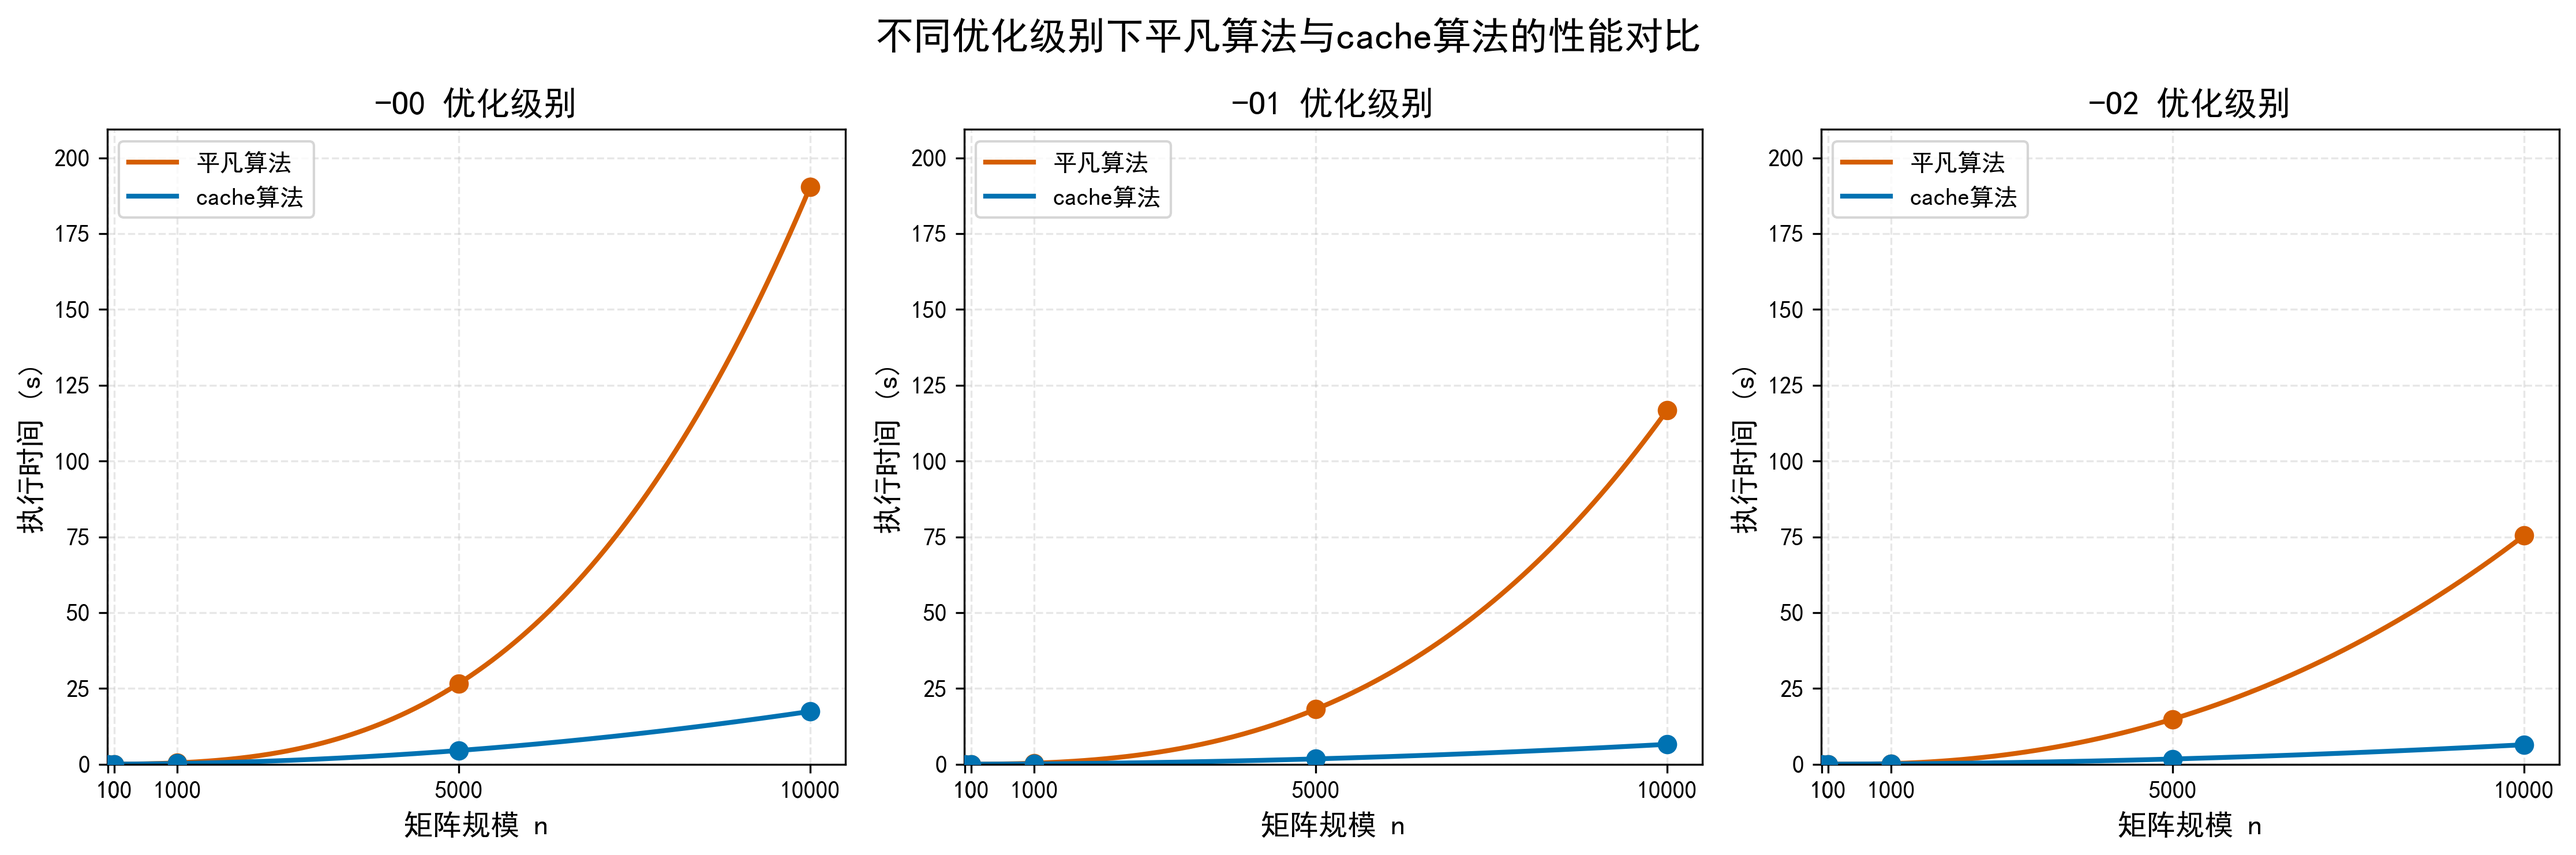
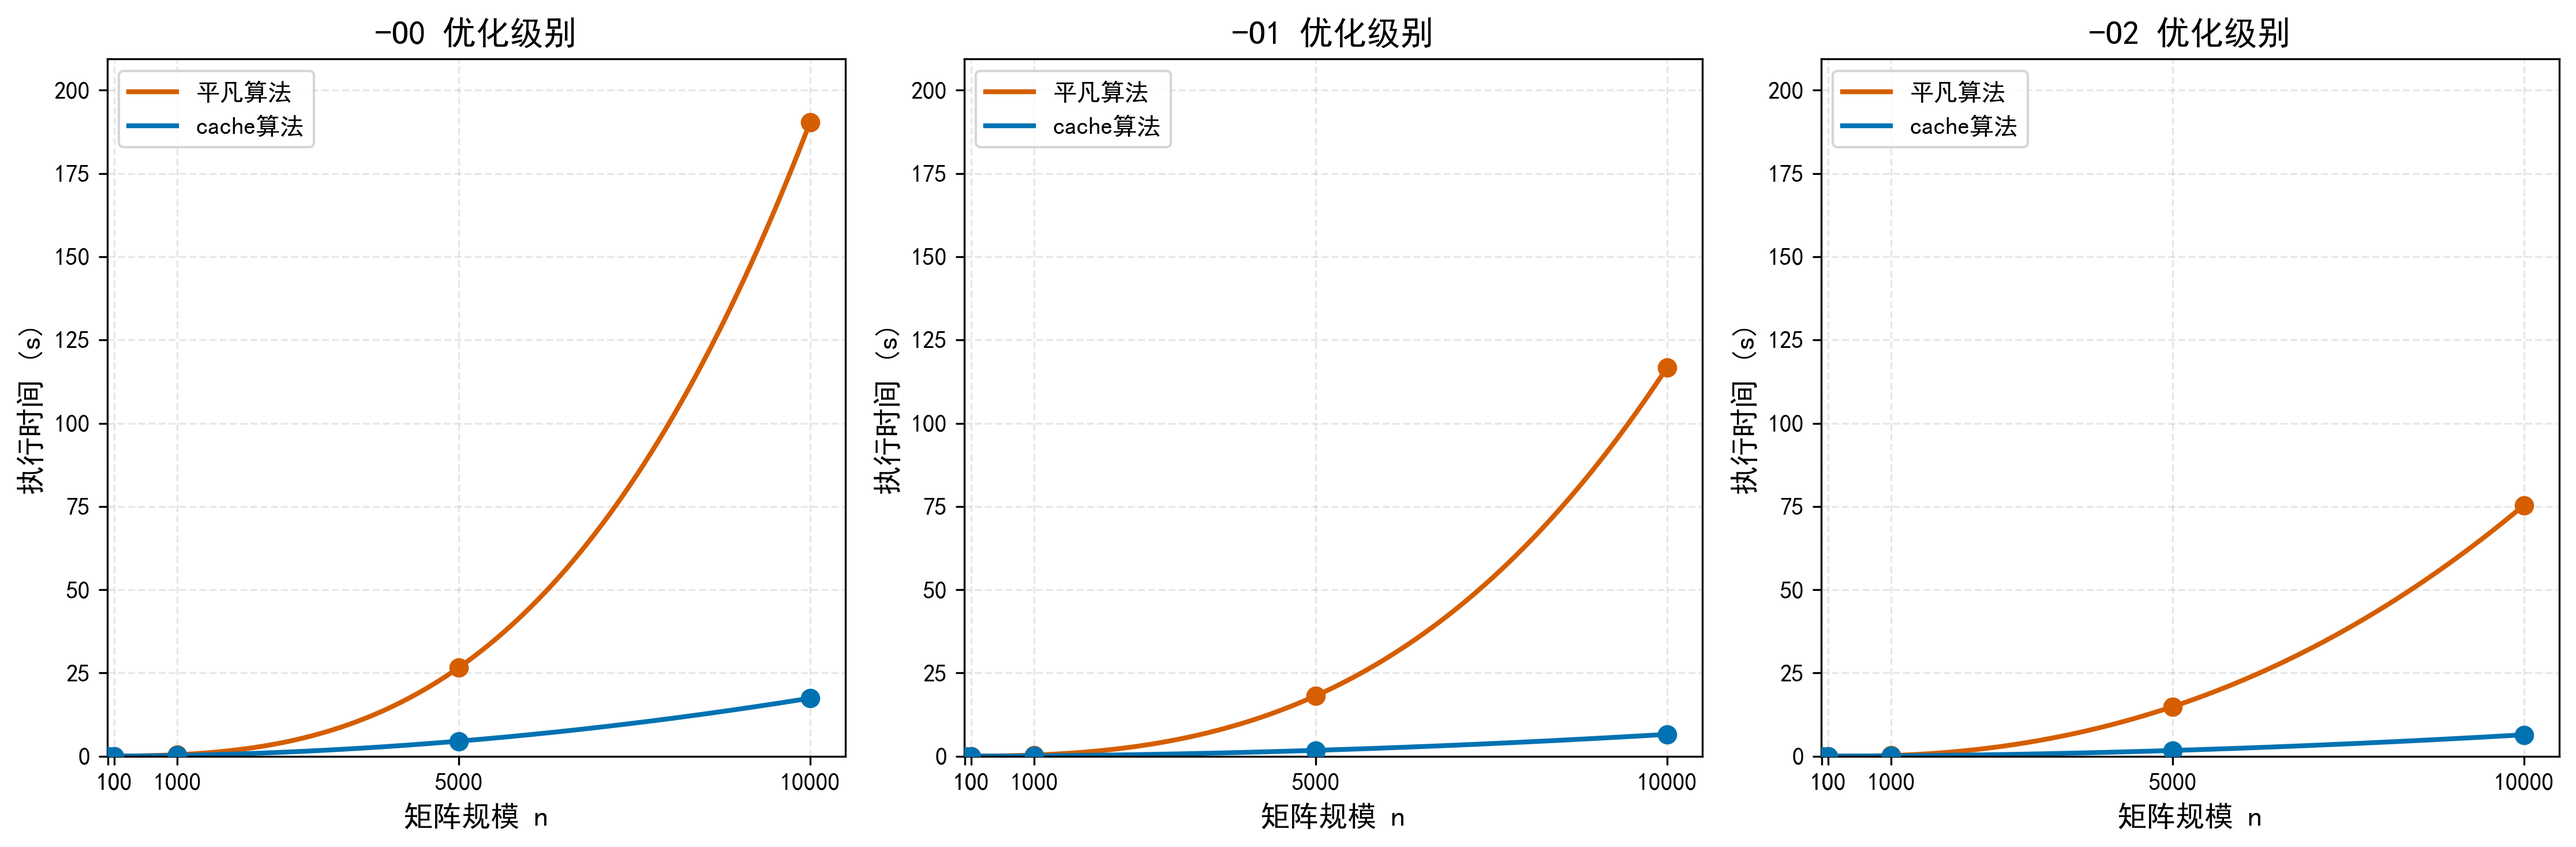
完成实验1

diff --git a/lab1/graph1_vtune.py b/lab1/graph1_vtune.py
@@ -1,0 +1,53 @@
+import numpy as np
+import matplotlib.pyplot as plt
+
+# 设置 matplotlib 参数
+plt.rcParams['font.sans-serif'] = ['SimHei', 'DejaVu Sans']
+plt.rcParams['axes.unicode_minus'] = False
+plt.rcParams['figure.figsize'] = (12, 8)
+plt.rcParams['figure.dpi'] = 100
+
+# 定义指标名称（简化显示）
+metrics = ['执行时间(s)', 'CPU时间(s)', '微架构利用率(%)', 
+           '内存瓶颈(%)', '主存瓶颈(%)', '末级缓存未命中(M)']
+
+# 平凡算法数据
+ordinary_values = [3.745, 0.347, 27.1, 41.1, 26.9, 3.85]
+
+# Cache优化算法数据
+cache_values = [3.068, 0.275, 35.1, 24.6, 13.2, 0]
+
+# 创建图形
+fig, ax = plt.subplots(figsize=(12, 7))
+
+x = np.arange(len(metrics))
+width = 0.35
+
+# 绘制条形图
+bars1 = ax.bar(x - width/2, ordinary_values, width, label='平凡算法', 
+               color='#F4A261', edgecolor='black', linewidth=1.2)
+bars2 = ax.bar(x + width/2, cache_values, width, label='Cache优化算法', 
+               color="#46828A", edgecolor='black', linewidth=1.2)
+
+# 添加数值标签
+for bar, val in zip(bars1, ordinary_values):
+    ax.text(bar.get_x() + bar.get_width()/2, bar.get_height() + max(ordinary_values)*0.02,
+            f'{val:.2f}', ha='center', va='bottom', fontsize=9, fontweight='bold')
+
+for bar, val in zip(bars2, cache_values):
+    ax.text(bar.get_x() + bar.get_width()/2, bar.get_height() + max(ordinary_values)*0.02,
+            f'{val:.2f}', ha='center', va='bottom', fontsize=9, fontweight='bold')
+
+# 设置标题和标签
+ax.set_xlabel('性能指标', fontsize=13, fontweight='bold')
+ax.set_ylabel('数值', fontsize=13, fontweight='bold')
+ax.set_xticks(x)
+ax.set_xticklabels(metrics, fontsize=11)
+ax.legend(fontsize=11, loc='upper right')
+ax.grid(True, alpha=0.3, axis='y', linestyle='--')
+
+
+# 调整布局
+plt.tight_layout()
+plt.savefig('lab1/graph1_vtune.png', dpi=300, bbox_inches='tight', facecolor='white')
+plt.show()

diff --git a/lab1/graph1.py b/lab1/graph1.py
@@ -81,7 +81,6 @@ for idx, opt in enumerate(opts):
     
 
 # 添加总标题
-fig.suptitle('不同优化级别下平凡算法与cache算法的性能对比', fontsize=16, fontweight='bold')
 plt.tight_layout()
 plt.savefig('lab1/graph1_Ocomp.png', dpi=300, bbox_inches='tight')
 plt.show()
